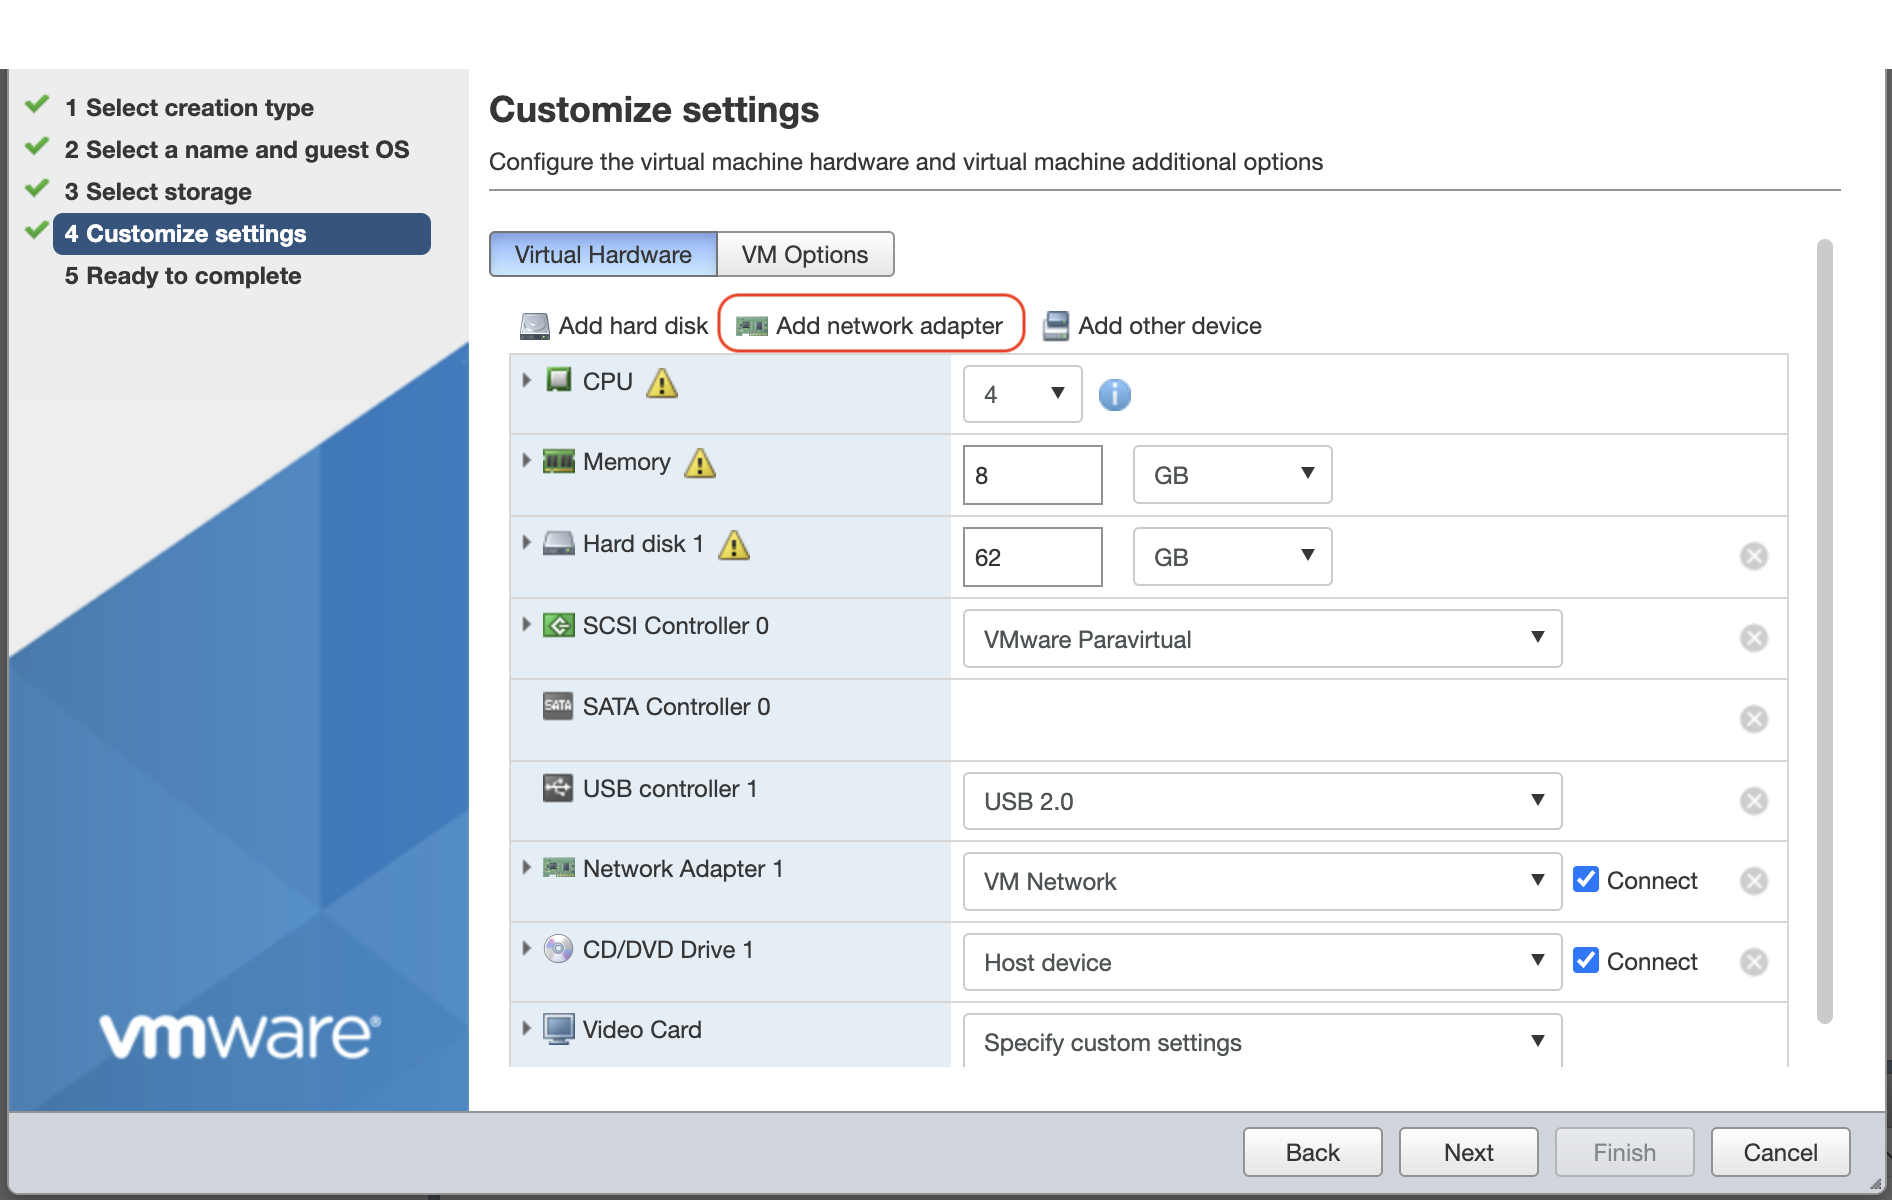
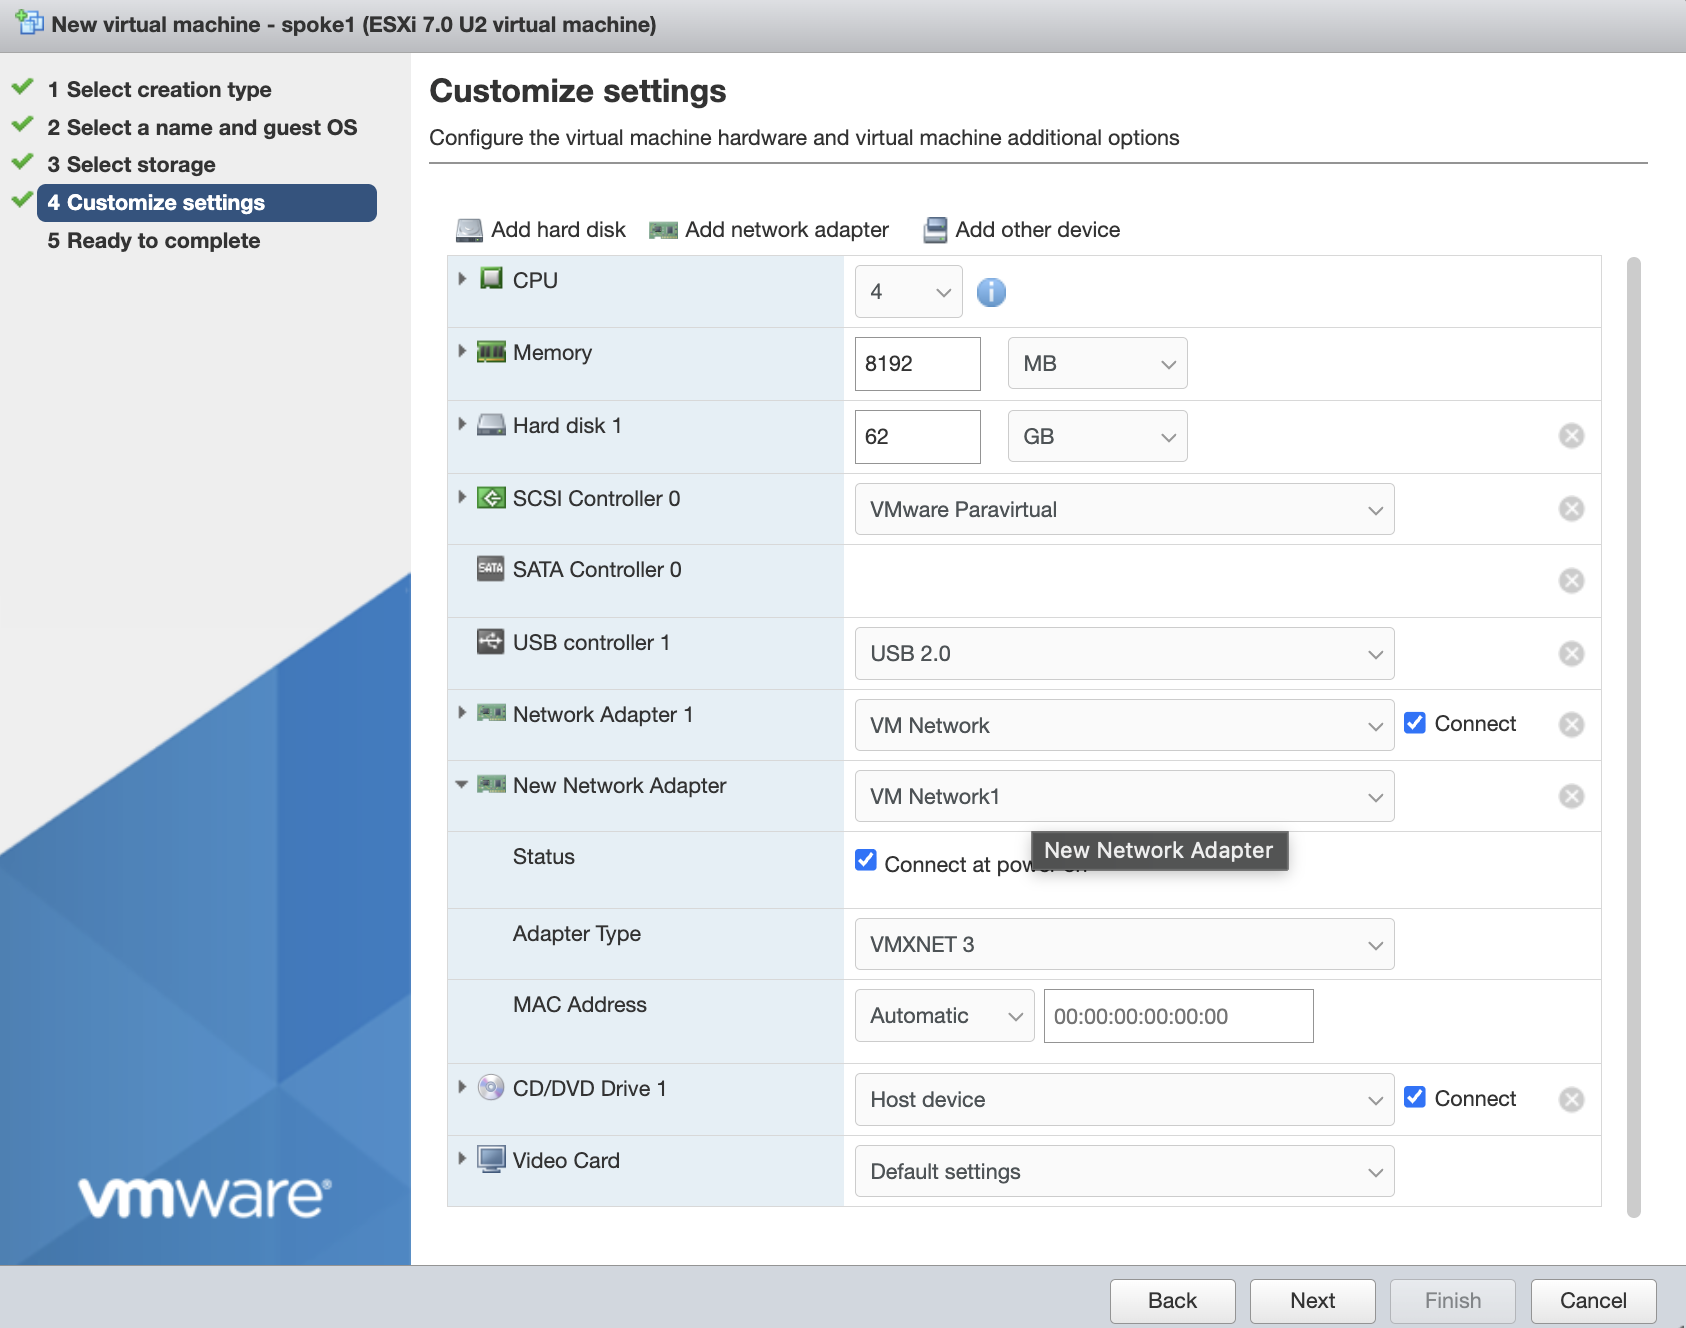
some screenshot and step updates from working session with S Voto.

Changed region(s): [[0.0, 0.0, 1.0, 1.0]]

diff --git a/docs/_vmware_router_vm_create.md b/docs/_vmware_router_vm_create.md
@@ -59,14 +59,14 @@ Use the steps below to configure the following:
 
 ### Virtual Hardware
 
-6. On the **Customize settings** screen, click **Virtual Hardware** and configure the following settings. 
+7. On the **Customize settings** screen, click **Virtual Hardware** and configure the following settings. 
 
   These values meet the minimum router requirements:
 
    | Setting | Value | Notes |
    |---------|-------|-------|
    | CPUs | `4` | Minimum |
-   | Hardware virtualization | Select (chekckbox) **Expose hardware assisited virtualization to the guest OS** | Set under CPU → expand |
+   | Hardware virtualization | Select (checkbox) **Expose hardware assisited virtualization to the guest OS** | Set under CPU → expand |
    | Memory | `8 GB` | Minimum |
    | Hard Disk 1 | `62 GB` | Minimum |
    | SCSI Controller 0 | `VMware Paravirtual` | |
@@ -75,17 +75,17 @@ Use the steps below to configure the following:
 
 ### Boot Settings
 
-13. Click the **VM Options** tab.
+8. Click the **VM Options** tab.
 
    ![VM Options](/img/vmware_vmoptions1.png)
 
-14. Expand **Boot Options**.
+9. Expand **Boot Options**.
 
-15.  In the Firmware field, choose **BIOS** from the drop down. 
+10.  In the Firmware field, choose **BIOS** from the drop down. 
 
     ![Boot Options](/img/vmware_router_vmoptions2.png)
 
-15. Click **Next**.
+11. Click **Next**.
 
 ### Network Adapters
 
@@ -93,9 +93,9 @@ A VMware router requires at least **two VMXNet3 network adapters**: one for WAN 
 
    ![Network Adapter Type](/img/dep6-vmrouter-nics.png)
 
-7. Set the existing adapter's **Adapter Type** to **VMXNET3** and select the appropriate **portgroup** name for the virtual network that will provide access to your WAN.
+12. Set the existing adapter's **Adapter Type** to **VMXNET3** and select the appropriate **portgroup** name for the virtual network that will provide access to your WAN.
 
-8. Click **Add network adapter** to add a second adapter. Set its **Adapter Type** to **VMXNET3** and select the appropriate **portgroup** name for the virtual network that will provide access to your LAN.
+13. Click **Add network adapter** to add a second adapter. Set its **Adapter Type** to **VMXNET3** and select the appropriate **portgroup** name for the virtual network that will provide access to your LAN.
 
    :::note
    If you need help creating portgroups and connecting them to your appropriate infrastructure, please consult your VMWare documentation.
@@ -104,25 +104,25 @@ A VMware router requires at least **two VMXNet3 network adapters**: one for WAN 
    ![Add Network Adapter](/img/dep6-vmrouter-nics2.png)
 
    :::note
-   The order of the adapters (NIC 1 = WAN, NIC 2 = LAN) corresponds to the PCI addresses you will identify in [Step 3 — Find VM NIC PCI Addresses](deploy_vmware_router_pci.mdx). Note which portgroup each adapter is connected to.
+   The order of the adapters (NIC 1 = WAN, NIC 2 = LAN) corresponds to the PCI addresses you will identify in [Step 3 — Find VM NIC PCI Addresses](deploy_vmware_router_pci.mdx). 
    :::
 
 ### CD/DVD Media - Software Selection
 
-9. Expand **CD/DVD Drive 1**. 
+14. Expand **CD/DVD Drive 1**. 
 
    ![CD Drive 1](/img/dep-vmrouter-image-select.png)
 
-10. Place a check next to **Connect at power on**. In the dropdown to the right, select **Datastore ISO file** and then click **Browse**. The Datastore Browser opens.
+15. Place a check next to **Connect at power on**. In the dropdown to the right, select **Datastore ISO file** and then click **Browse**. The Datastore Browser opens.
 
-11. Select the `SSR-7.1.4-3.r2.el9.x86_64.ibu-v1.iso` and click **Select**.
+16. Select the `SSR-7.1.4-3.r2.el9.x86_64.ibu-v1.iso` and click **Select**.
 
    ![CD ISO Selected](/img/dep7-vm-selectversion.png)
 
-12. Confirm the settings, and then click **Next**.
+17. Confirm the settings, and then click **Next**.
 
    ![Confirm Settings](/img/dep8-vm-all-settings.png) 
 
-15. Review the summary, then click **Finish**.
+18. Review the summary, then click **Finish**.
 
    ![VM Complete](/img/dep9-vmrouter-summary.png)